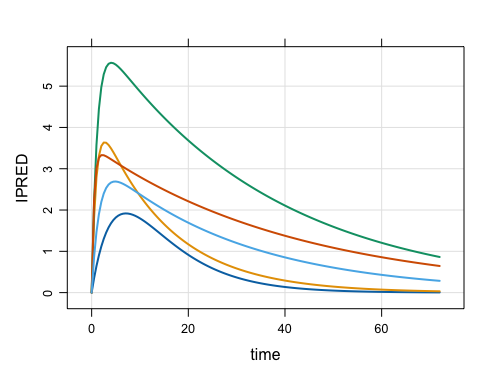
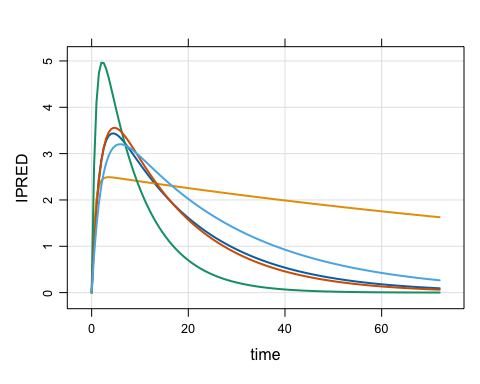
re-build readme with seed

diff --git a/README.md b/README.md
@@ -76,7 +76,7 @@ disk.
 
 ``` r
 basename(out$files)
-. [1] "mrgsims-ds-f6c83b9a744.parquet"
+. [1] "mrgsims-ds-100ca5421acc4.parquet"
 ```
 
 This means there is almost nothing inside the object itself
@@ -253,7 +253,7 @@ library(future.apply, quietly = TRUE)
 
 plan(multisession, workers = 5L)
 
-out2 <- future_lapply(1:500, \(x) { mrgsim_ds(mod, data) }, future.seed = TRUE)
+out2 <- future_lapply(1:500, \(x) { mrgsim_ds(mod, data) }, future.seed = 1234L)
 
 out2 <- reduce_ds(out2)
 
@@ -270,14 +270,14 @@ out2
 . Files: 500 [6.4 Gb]
 . Owner: yes (gc)
 .     ID time        CL     IPRED
-. 1:   1  0.0 0.4098122 0.0000000
-. 2:   1  0.0 0.4098122 0.0000000
-. 3:   1  0.5 0.4098122 0.6459828
-. 4:   1  1.0 0.4098122 1.1487007
-. 5:   1  1.5 0.4098122 1.5390714
-. 6:   1  2.0 0.4098122 1.8413456
-. 7:   1  2.5 0.4098122 2.0745446
-. 8:   1  3.0 0.4098122 2.2535874
+. 1:   1  0.0 0.8662169 0.0000000
+. 2:   1  0.0 0.8662169 0.0000000
+. 3:   1  0.5 0.8662169 0.8249596
+. 4:   1  1.0 0.8662169 1.3772874
+. 5:   1  1.5 0.8662169 1.7441338
+. 6:   1  2.0 0.8662169 1.9848224
+. 7:   1  2.5 0.8662169 2.1397344
+. 8:   1  3.0 0.8662169 2.2363570
 ```
 
 ``` r
@@ -292,11 +292,11 @@ All `arrow` files are stored in the `tempdir()` in parquet format
 ``` r
 list_temp()
 . 501 files [6.4 Gb]
-. - mrgsims-ds-f6c83b9a744.parquet
-. - mrgsims-ds-f70f11dff53f.parquet
+. - mrgsims-ds-100ca5421acc4.parquet
+. - mrgsims-ds-1010810412d97.parquet
 .    ...
-. - mrgsims-ds-f713c7aa98e.parquet
-. - mrgsims-ds-f713d2f71c4.parquet
+. - mrgsims-ds-1010ca83fbe2.parquet
+. - mrgsims-ds-1010cb596189.parquet
 ```
 
 This directory is eventually removed when the R session ends. Tools are
@@ -316,7 +316,7 @@ plan(multisession, workers = 5L)
 out1 <- mrgsim_ds(mod, data)
 rename_ds(out1, "out1")
 
-out2 <- future_lapply(1:10, \(x) { mrgsim_ds(mod, data) }, future.seed = TRUE)
+out2 <- future_lapply(1:10, \(x) { mrgsim_ds(mod, data) }, future.seed = 5678L)
 
 out2 <- reduce_ds(out2)
 rename_ds(out2, "out2")
@@ -351,8 +351,8 @@ cleaned up.
 ``` r
 gc()
 .           used  (Mb) gc trigger  (Mb) limit (Mb) max used  (Mb)
-. Ncells 1965628 105.0    6390945 341.4         NA  6673177 356.4
-. Vcells 3684435  28.2   19669800 150.1      16384 22106544 168.7
+. Ncells 1966985 105.1    6339532 338.6         NA  6675920 356.6
+. Vcells 3686631  28.2   19672330 150.1      16384 22114930 168.8
 
 list_temp()
 . 2 files [26.4 Mb]
@@ -413,7 +413,7 @@ mod <- modlib_ds("popex", end = 72)
 
 data <- evd_expand(amt = 100, ID = 1:6)
 
-daemons(3)
+daemons(3, seed = 1234)
 
 out <- mirai_map(
   1:3, 
@@ -439,15 +439,15 @@ out[[1]]
 . Dim  : 876 x 4
 . Files: 1 [10.5 Kb]
 . Owner: no
-.     ID TIME       CL     IPRED
-. 1:   1  0.0 2.595017 0.0000000
-. 2:   1  0.0 2.595017 0.0000000
-. 3:   1  0.5 2.595017 0.3473730
-. 4:   1  1.0 2.595017 0.6462037
-. 5:   1  1.5 2.595017 0.9017091
-. 6:   1  2.0 2.595017 1.1185962
-. 7:   1  2.5 2.595017 1.3011094
-. 8:   1  3.0 2.595017 1.4530742
+.     ID TIME       CL    IPRED
+. 1:   1  0.0 1.251533 0.000000
+. 2:   1  0.0 1.251533 0.000000
+. 3:   1  0.5 1.251533 1.111774
+. 4:   1  1.0 1.251533 1.907083
+. 5:   1  1.5 1.251533 2.468268
+. 6:   1  2.0 1.251533 2.856435
+. 7:   1  2.5 1.251533 3.116927
+. 8:   1  3.0 1.251533 3.283385
 . [mrgsim.ds] pointer and source pid refreshed.
 ```
 
@@ -476,15 +476,15 @@ out
 . Dim  : 2,628 x 4
 . Files: 3 [31.4 Kb]
 . Owner: yes (gc)
-.     ID TIME       CL     IPRED
-. 1:   1  0.0 2.595017 0.0000000
-. 2:   1  0.0 2.595017 0.0000000
-. 3:   1  0.5 2.595017 0.3473730
-. 4:   1  1.0 2.595017 0.6462037
-. 5:   1  1.5 2.595017 0.9017091
-. 6:   1  2.0 2.595017 1.1185962
-. 7:   1  2.5 2.595017 1.3011094
-. 8:   1  3.0 2.595017 1.4530742
+.     ID TIME       CL    IPRED
+. 1:   1  0.0 1.251533 0.000000
+. 2:   1  0.0 1.251533 0.000000
+. 3:   1  0.5 1.251533 1.111774
+. 4:   1  1.0 1.251533 1.907083
+. 5:   1  1.5 1.251533 2.468268
+. 6:   1  2.0 1.251533 2.856435
+. 7:   1  2.5 1.251533 3.116927
+. 8:   1  3.0 1.251533 3.283385
 ```
 
 Now we have all three files collected in a single object that we can
@@ -520,15 +520,15 @@ out2
 . Dim  : 2,628 x 4
 . Files: 3 [31.4 Kb]
 . Owner: yes (no gc)
-.     ID TIME       CL     IPRED
-. 1:   1  0.0 2.595017 0.0000000
-. 2:   1  0.0 2.595017 0.0000000
-. 3:   1  0.5 2.595017 0.3473730
-. 4:   1  1.0 2.595017 0.6462037
-. 5:   1  1.5 2.595017 0.9017091
-. 6:   1  2.0 2.595017 1.1185962
-. 7:   1  2.5 2.595017 1.3011094
-. 8:   1  3.0 2.595017 1.4530742
+.     ID TIME       CL    IPRED
+. 1:   1  0.0 1.251533 0.000000
+. 2:   1  0.0 1.251533 0.000000
+. 3:   1  0.5 1.251533 1.111774
+. 4:   1  1.0 1.251533 1.907083
+. 5:   1  1.5 1.251533 2.468268
+. 6:   1  2.0 1.251533 2.856435
+. 7:   1  2.5 1.251533 3.116927
+. 8:   1  3.0 1.251533 3.283385
 ```
 
 ``` r
